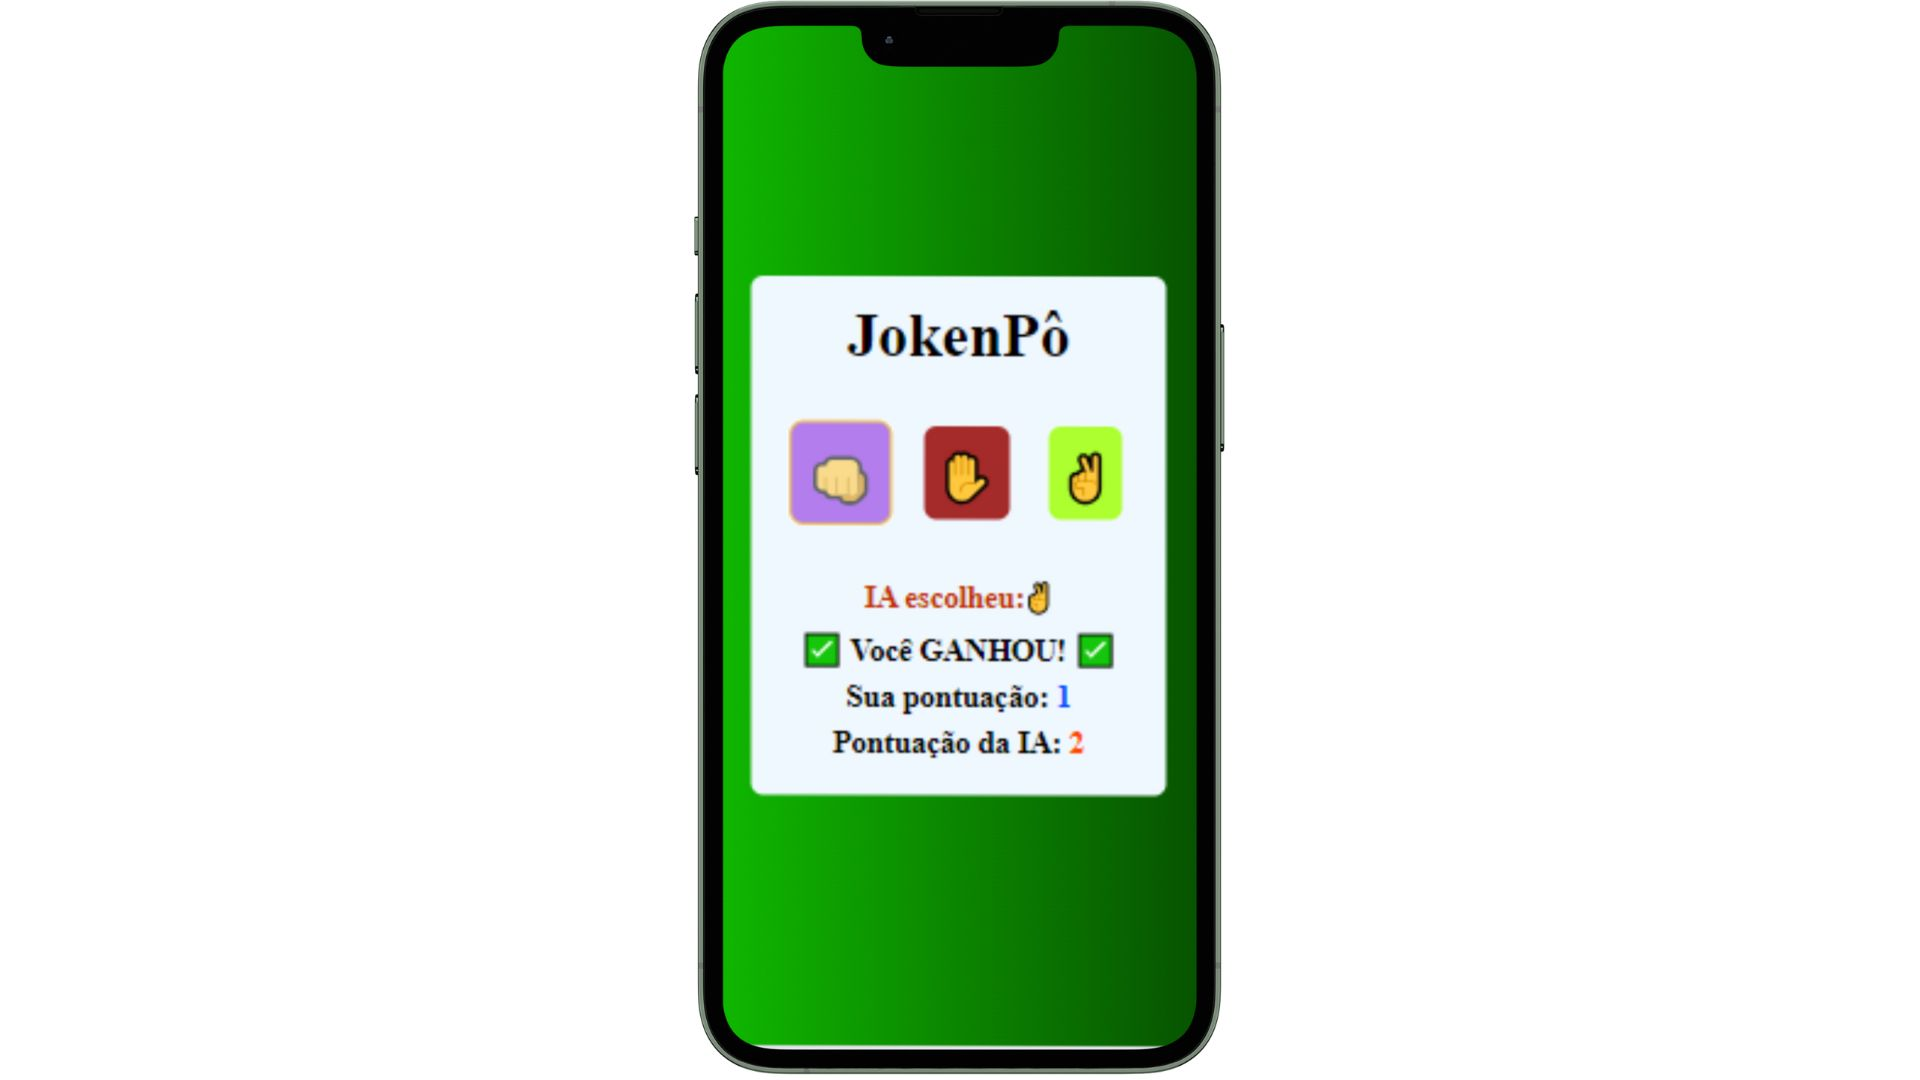
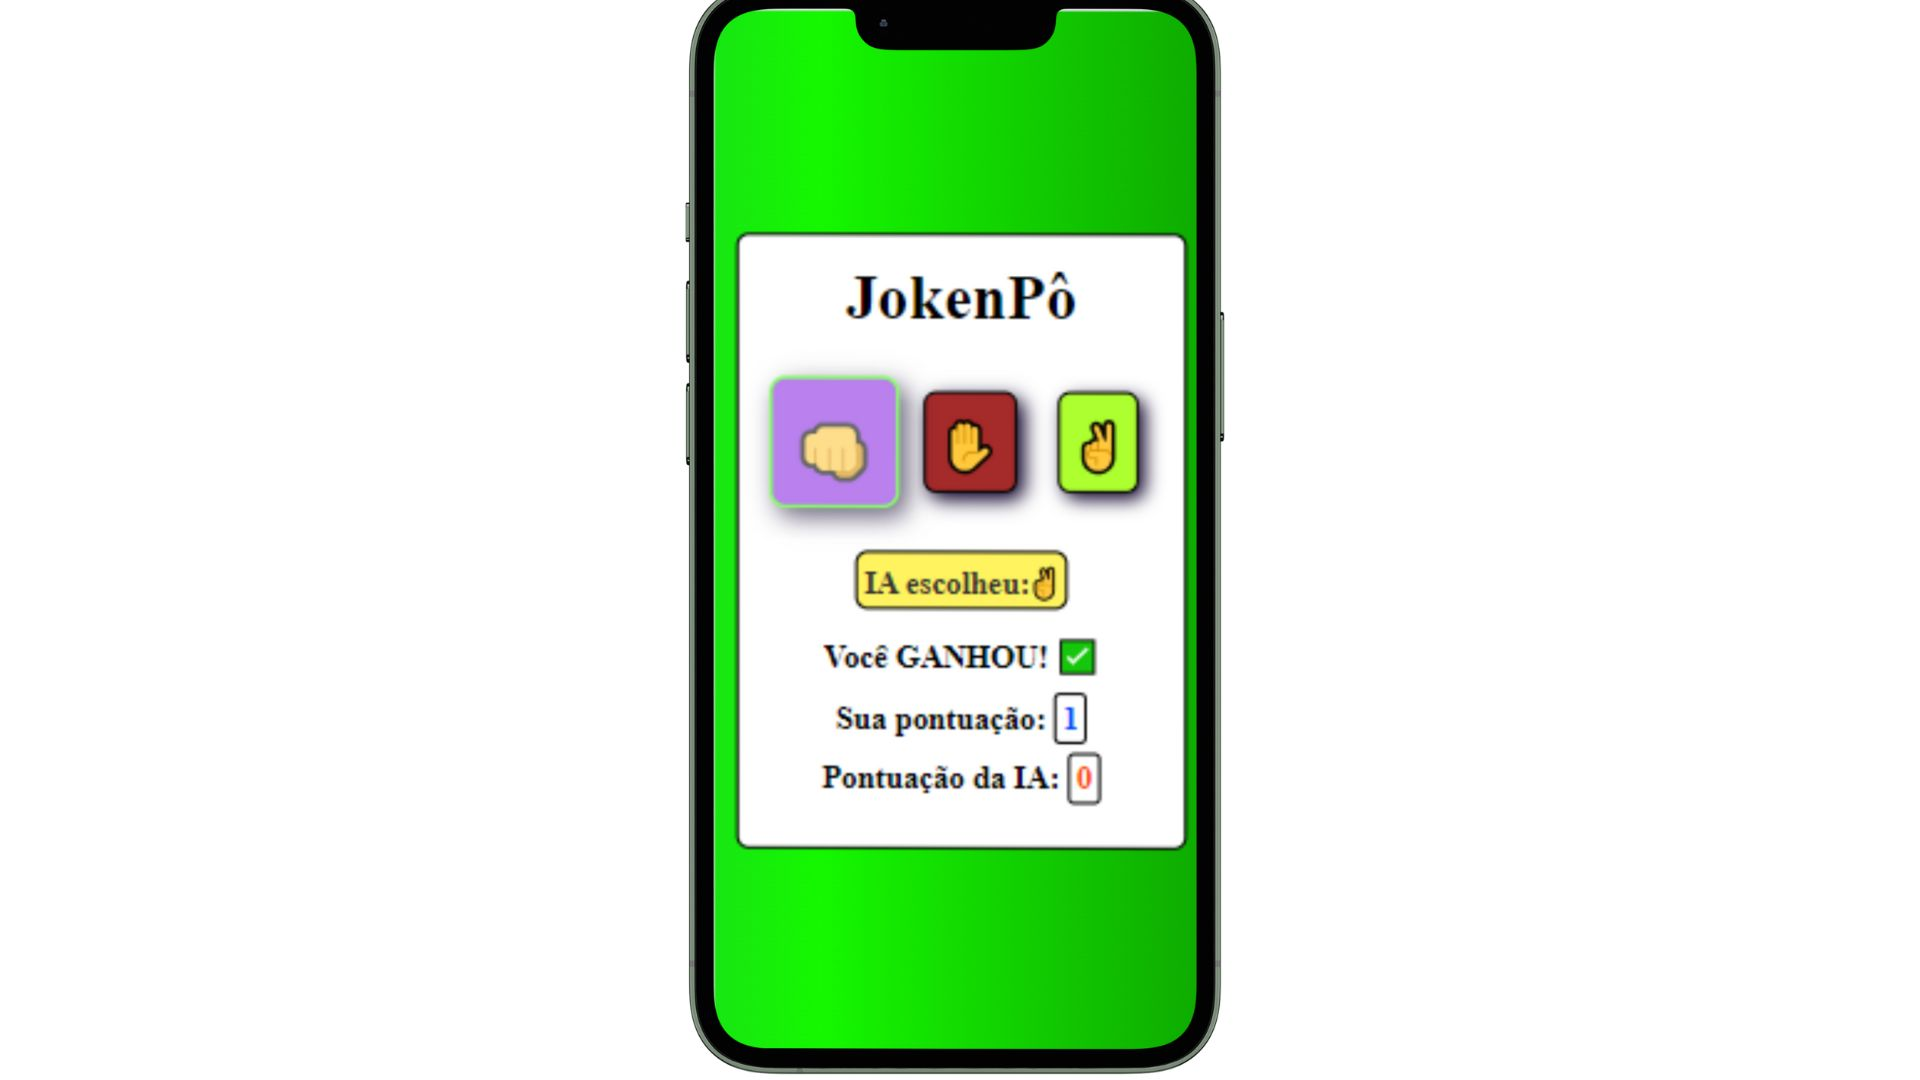
Projeto final

Changed region(s): [[0.3438, 0.0, 0.6562, 1.0]]

diff --git a/style.css b/style.css
@@ -28,12 +28,13 @@ body {
 
 .container {
     padding: 20px;
-    background-color: aliceblue;
+    background-color: rgb(255, 255, 255);
     border-radius: 10px;
     display: flex;
     flex-direction: column;
     align-items: center;
     justify-content: center;
+    border: 2px solid #000000;
 }
 
 .buttons {
@@ -56,11 +57,14 @@ button {
     border-radius: 10px;
     margin: 1rem;
     transition: all 0.3s ease-in-out;
+    box-shadow: 5px 5px 15px rgb(12, 0, 41);
+    border: 2px solid #000000;
 }
 
 button:hover {
     opacity: 0.6;
     scale: 1.3;
+    border: 2px solid #33ff00;
 }
 
 #rock {
@@ -78,16 +82,32 @@ button:hover {
 p {
     font-size: 25px;
     font-weight: bold;
-    margin-bottom: 10px;
+    margin-bottom: 20px;
+    text-align: left;
 }
 
 .your-score span {
     color: rgb(0, 68, 255);
+    border: 2px solid #000000;
+    padding: 5px;
+    border-radius: 5px;
+
 }
 
 .machine-score span {
     color: rgb(255, 72, 0);
+    border: 2px solid #000000;
+    padding: 5px;
+    border-radius: 5px;
 }
-.choice-machine{
-    color: rgb(197, 46, 0);
+
+.choice-machine {
+    color: rgb(51, 49, 48);
+}
+
+#play-machine {
+    border: 2px solid #000000;
+    border-radius: 10px;
+    padding: 5px;
+    background-color: rgb(255, 244, 95);
 }

diff --git a/script.js b/script.js
@@ -39,11 +39,11 @@ const playTheGame = (human, machine) => {
         (human === 'scissors' && machine === 'paper')) {
         humanScoreNumber++
         myScore.innerHTML = humanScoreNumber
-        result.innerHTML = "&#x2705 Você GANHOU!  &#x2705"
+        result.innerHTML = "Você GANHOU!  &#x2705"
     } else {
         machineScoreNumber++
         machineScore.innerHTML = machineScoreNumber
-        result.innerHTML = "&#x274C Você perdeu! &#x274C"
+        result.innerHTML = "Você perdeu! &#x274C"
     }
 
 }

diff --git a/index.html b/index.html
@@ -17,7 +17,7 @@
             <button id="paper" onclick="playHuman('paper')">&#x270B</button>
             <button id="scissors" onclick="playHuman('scissors')">&#x270C</button>
         </div>
-        <p class="choice-machine"></p>
+        <p class="choice-machine" id="play-machine">IA:</p>
         <p class="result"></p>
         <p class="your-score">Sua pontuação: <span id="human-score">0</span>
         </p>
